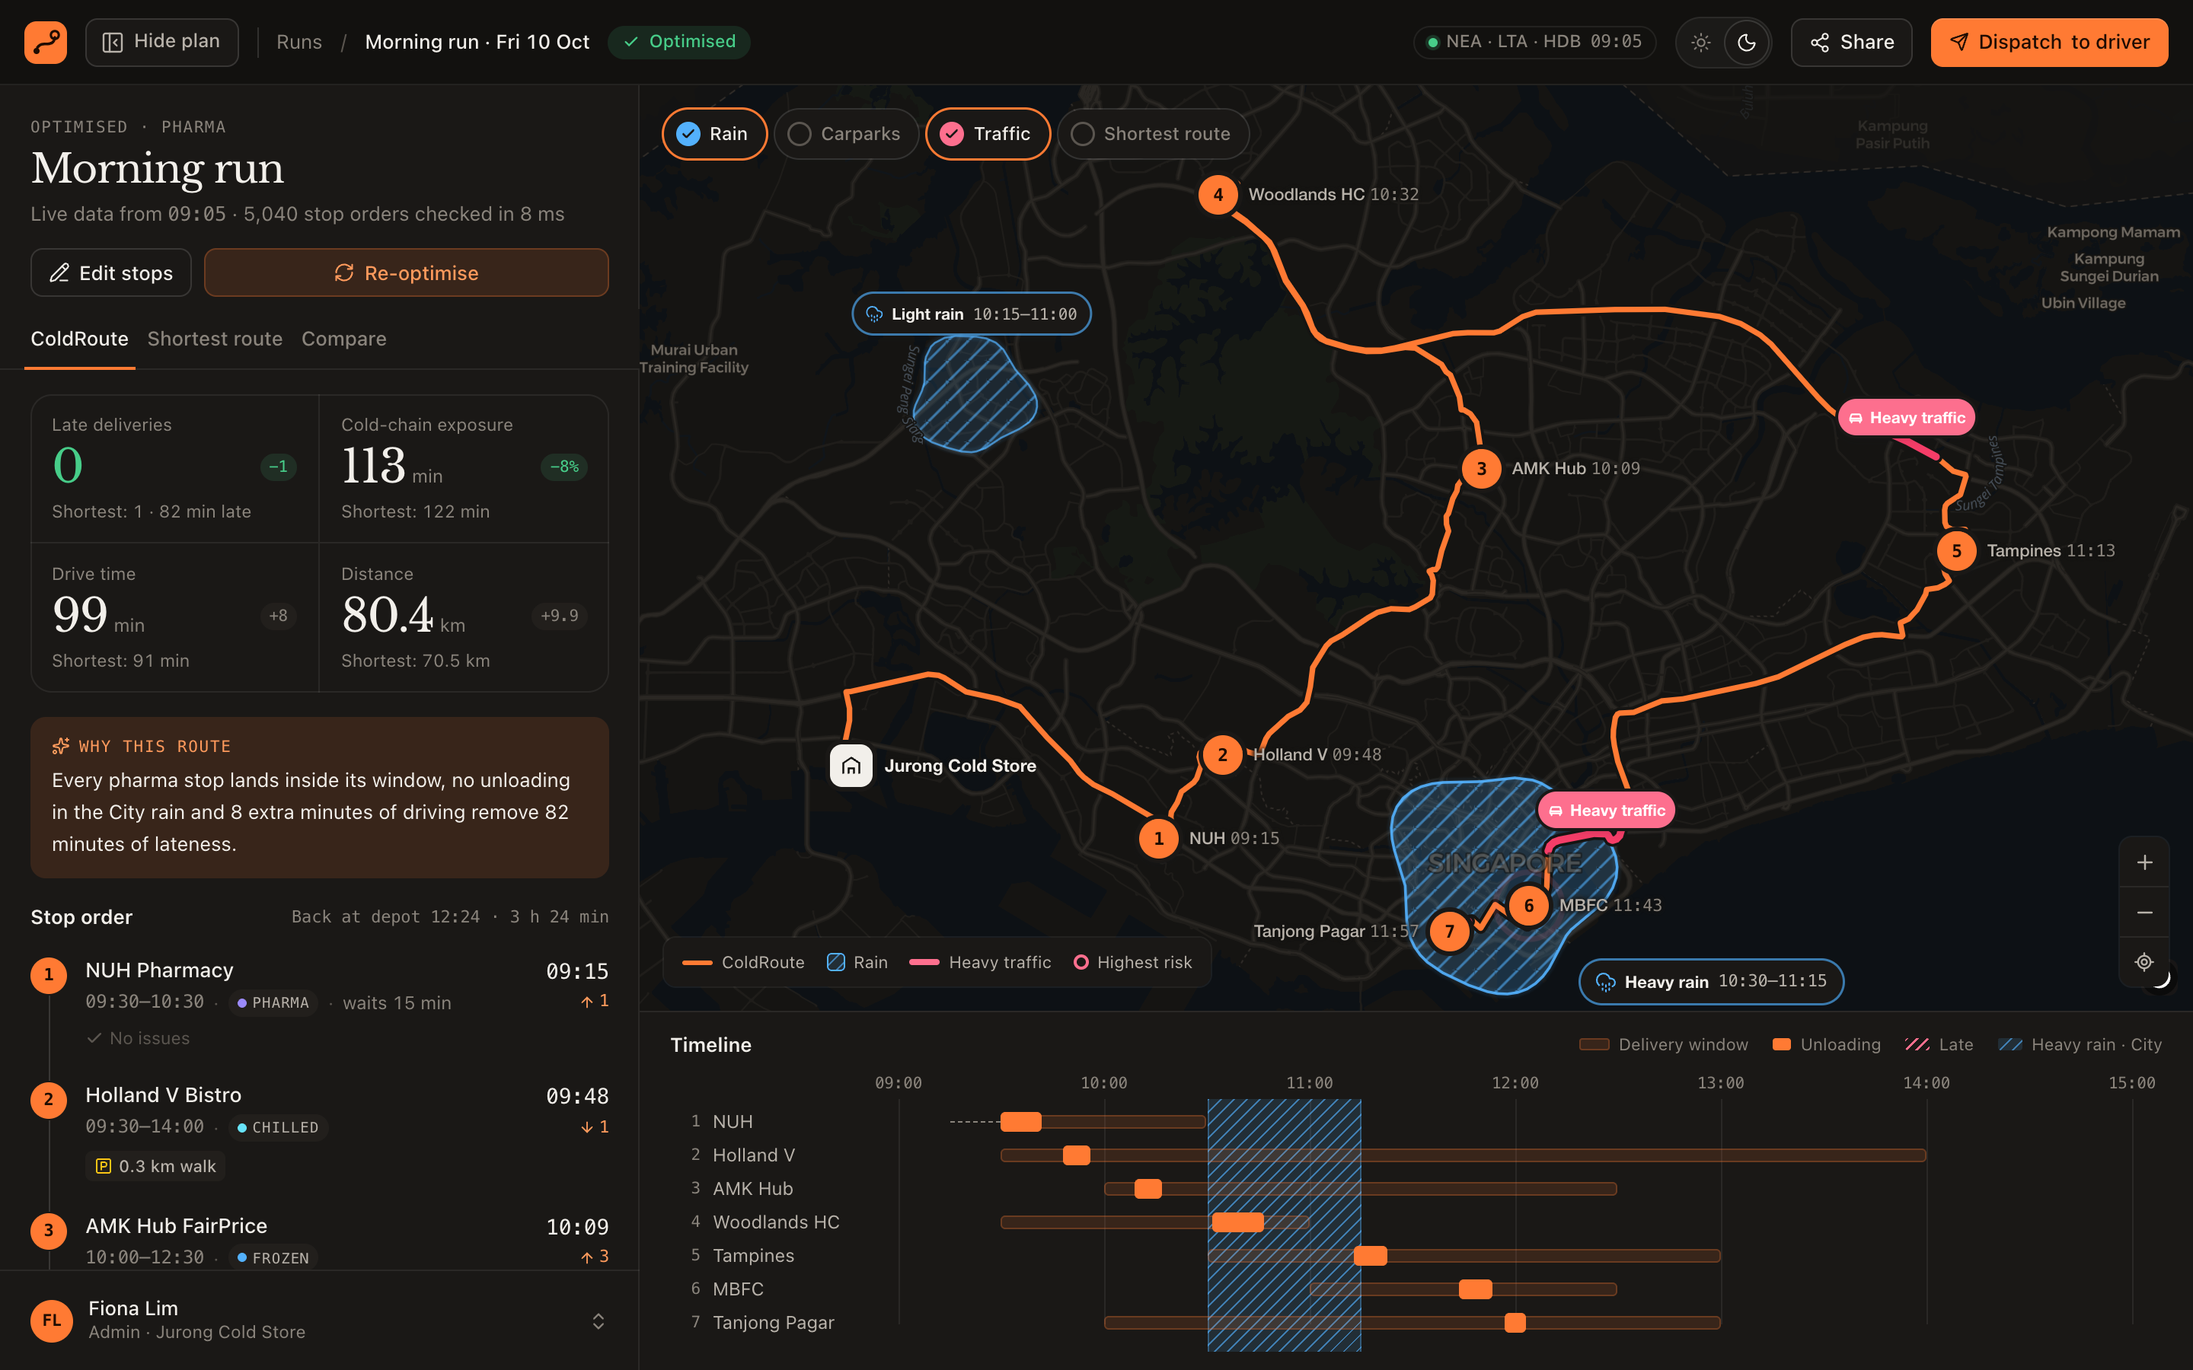
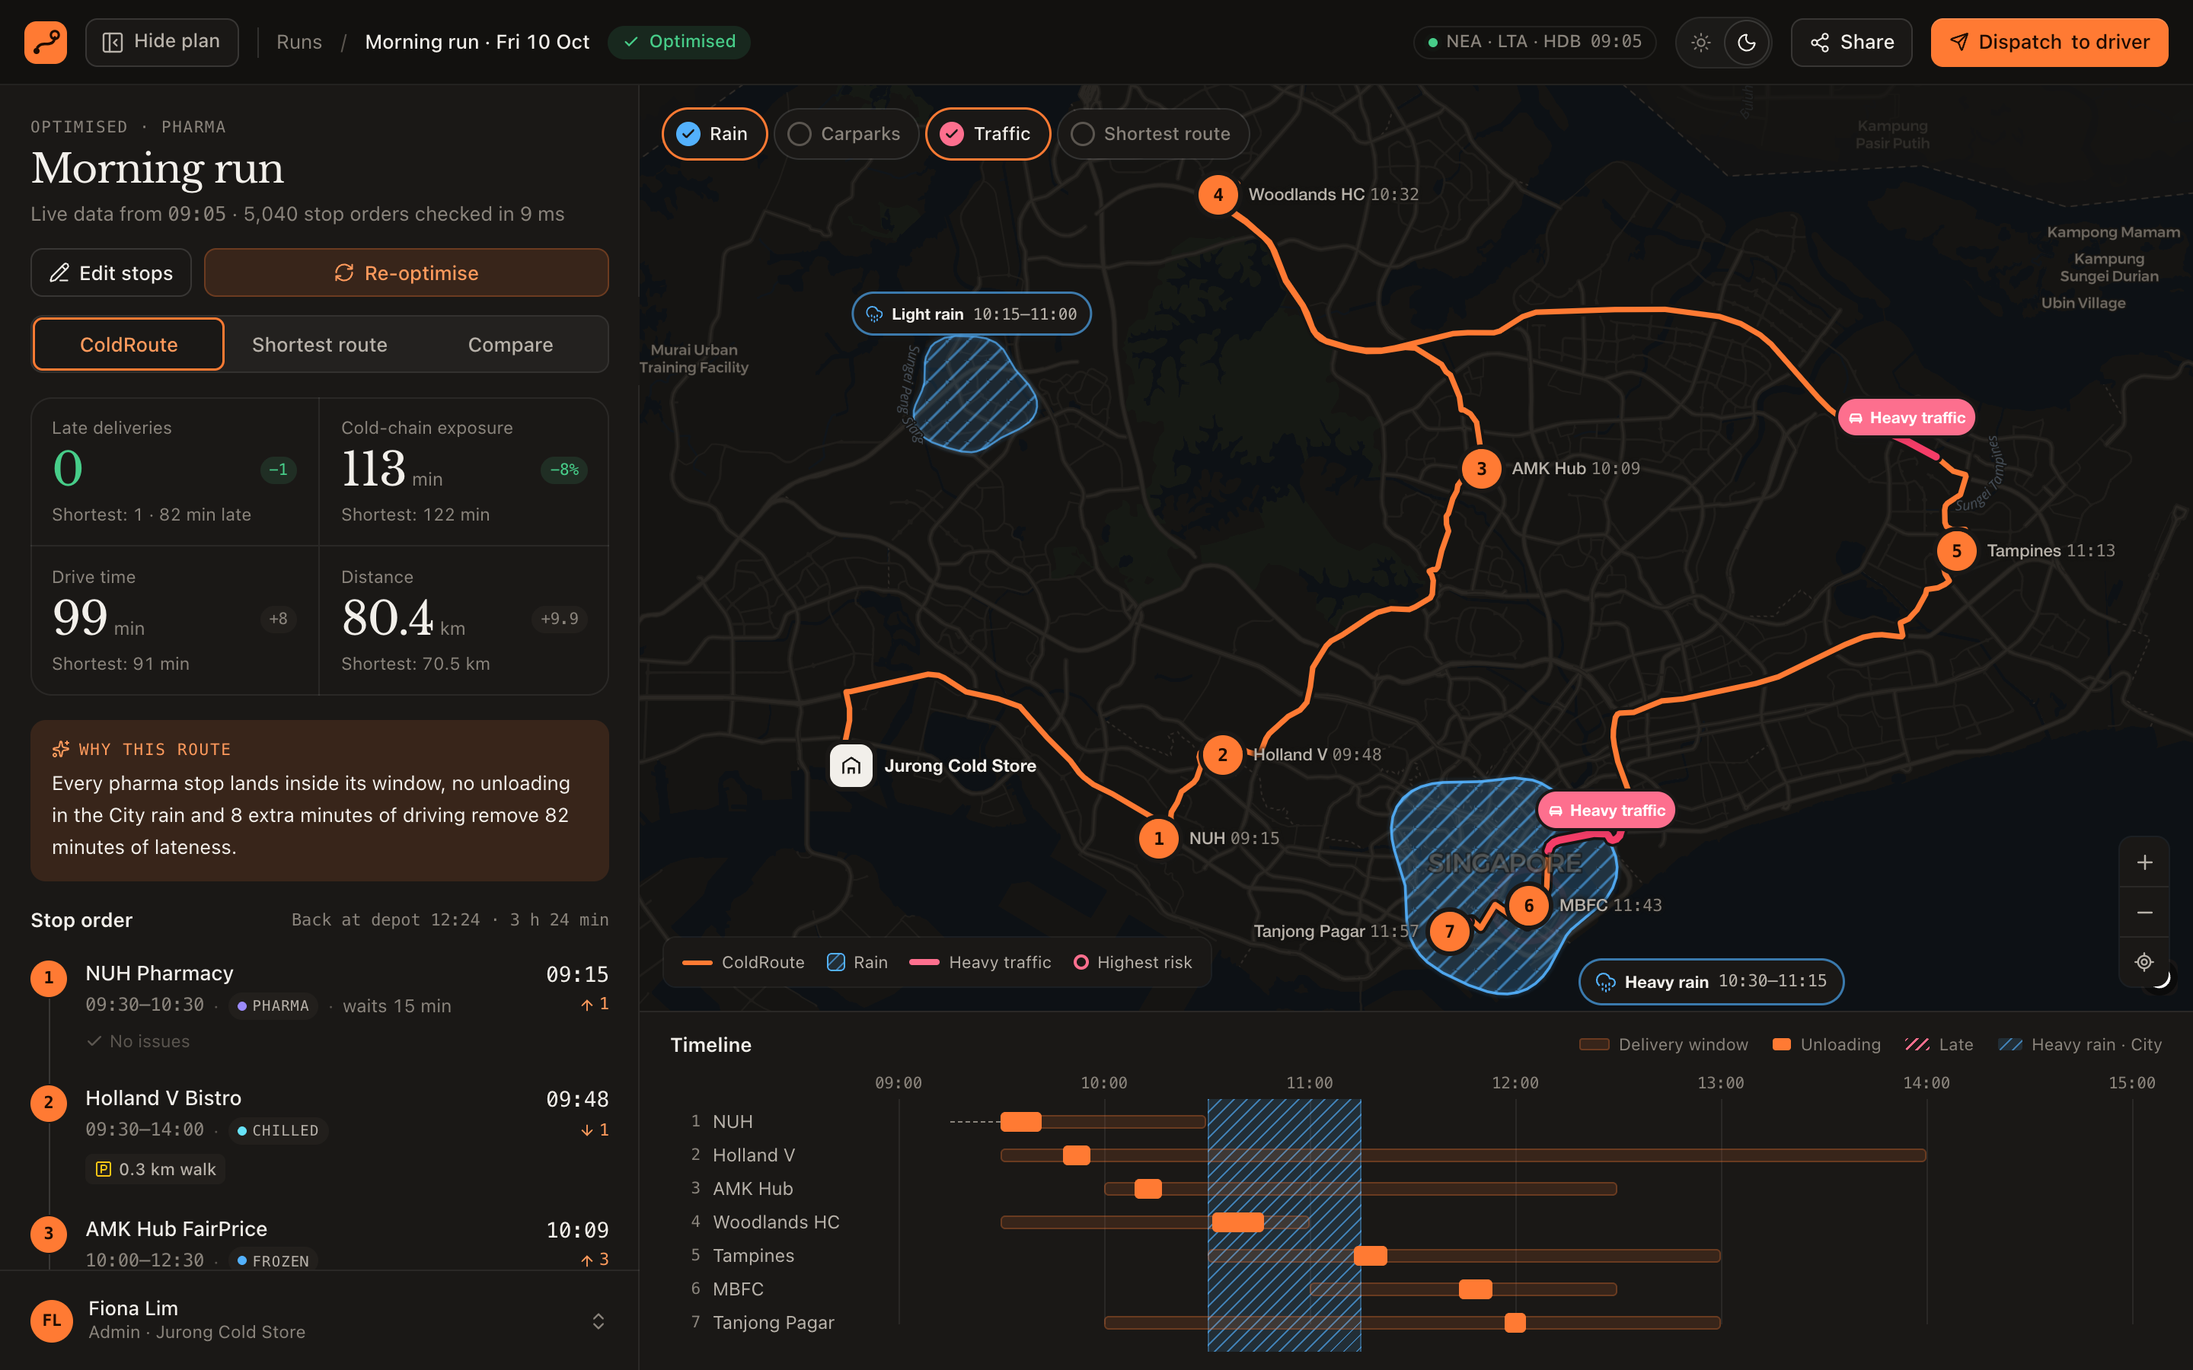
Use Segmented for the route view, add frontend AGENTS.md
- The ColdRoute / Shortest route / Compare switch now uses the same
  Segmented control as the profile picker; the underline Tabs are gone.
  On a narrow panel it reads "Shortest", like the KPI captions.
- frontend/AGENTS.md: the UI conventions (tokens, colour meanings, one
  solid primary per screen, action placement, one switch style, type
  scale, copy, layouts, PR checklist). Linked from both READMEs.
- README: a short Conventions section and refreshed screenshots.

diff --git a/frontend/src/components/ui.tsx b/frontend/src/components/ui.tsx
@@ -75,7 +75,7 @@ export function Segmented<T extends string>({
   label,
 }: {
   value: T
-  options: Array<{ value: T; label: ReactNode }>
+  options: Array<{ value: T; label: ReactNode; title?: string }>
   onChange: (v: T) => void
   size?: 'sm' | 'md'
   className?: string
@@ -94,6 +94,7 @@ export function Segmented<T extends string>({
             key={o.value}
             role="radio"
             aria-checked={on}
+            title={o.title}
             onClick={() => onChange(o.value)}
             className={clsx(
               'min-w-0 flex-1 truncate whitespace-nowrap rounded-[calc(var(--r-control)-3px)] font-medium transition-[background-color,color,box-shadow] duration-150 focus-visible:outline-offset-[-1px]',
@@ -101,51 +102,6 @@ export function Segmented<T extends string>({
               on
                 ? 'bg-panel text-brand-fg shadow-[0_0_0_1.5px_var(--brand),0_1px_2px_rgba(16,24,40,0.08)]'
                 : 'text-fg-2 hover:bg-panel/70 hover:text-fg',
-            )}
-          >
-            {o.label}
-          </button>
-        )
-      })}
-    </div>
-  )
-}
-
-/**
- * Switch between views of the same thing. Underlined tabs on a hairline, sized
- * to their labels, so they never squeeze or wrap; they scroll if space runs out.
- */
-export function Tabs<T extends string>({
-  value,
-  options,
-  onChange,
-  className,
-  label,
-}: {
-  value: T
-  options: Array<{ value: T; label: ReactNode; title?: string }>
-  onChange: (v: T) => void
-  className?: string
-  label?: string
-}) {
-  return (
-    <div
-      role="tablist"
-      aria-label={label}
-      className={clsx('no-scrollbar flex gap-3 overflow-x-auto shadow-[inset_0_-1px_0_var(--border-main)]', className)}
-    >
-      {options.map((o) => {
-        const on = value === o.value
-        return (
-          <button
-            key={o.value}
-            role="tab"
-            aria-selected={on}
-            title={o.title}
-            onClick={() => onChange(o.value)}
-            className={clsx(
-              '-mx-1 flex h-10 shrink-0 items-center gap-1.5 whitespace-nowrap rounded-t-[6px] border-b-2 px-1 text-[13px] font-medium transition-colors focus-visible:outline-offset-[-2px]',
-              on ? 'border-brand text-fg' : 'border-transparent text-fg-3 hover:border-line-strong hover:text-fg',
             )}
           >
             {o.label}

diff --git a/frontend/src/components/ResultsPanel.tsx b/frontend/src/components/ResultsPanel.tsx
@@ -5,7 +5,7 @@ import { summarise } from '../lib/explain'
 import { travel } from '../lib/optimizer'
 import { duration, hm, signed } from '../lib/time'
 import type { OptimiseResult, Plan, Stop, StopResult } from '../lib/types'
-import { Button, CargoTag, Tabs } from './ui'
+import { Button, CargoTag, Segmented } from './ui'
 
 export type View = 'coldroute' | 'baseline' | 'compare'
 
@@ -68,19 +68,31 @@ export function ResultsPanel(props: Props) {
           </div>
         )}
       </div>
-      <Tabs<View>
-        label="Route view"
-        className="sticky top-0 z-10 mt-2 bg-panel px-5"
-        value={view}
-        onChange={setView}
-        options={[
-          { value: 'coldroute', label: 'ColdRoute', title: 'The recommended, risk-aware plan' },
-          { value: 'baseline', label: 'Shortest route', title: 'Minimises driving only' },
-          { value: 'compare', label: 'Compare', title: 'Both plans on one map' },
-        ]}
-      />
+      {/* same switch as the draft profile picker; stays reachable while the panel scrolls */}
+      <div className="sticky top-0 z-10 bg-panel px-5 pt-3 pb-2">
+        <Segmented<View>
+          label="Route view"
+          className="w-full"
+          value={view}
+          onChange={setView}
+          options={[
+            { value: 'coldroute', label: 'ColdRoute', title: 'The recommended, risk-aware plan' },
+            {
+              value: 'baseline',
+              // "Shortest" alone on a narrow panel, like the KPI captions
+              label: (
+                <>
+                  Shortest<span className="@max-sm:hidden"> route</span>
+                </>
+              ),
+              title: 'Shortest route: minimises driving only',
+            },
+            { value: 'compare', label: 'Compare', title: 'Both plans on one map' },
+          ]}
+        />
+      </div>
 
-      <div className="mx-5 mt-4 grid grid-cols-2 overflow-hidden rounded-panel shadow-[inset_0_0_0_1px_var(--border-main)]">
+      <div className="mx-5 mt-2 grid grid-cols-2 overflow-hidden rounded-panel shadow-[inset_0_0_0_1px_var(--border-main)]">
         <Kpi
           label="Late deliveries"
           value={String(shown.lateStops)}

diff --git a/frontend/AGENTS.md b/frontend/AGENTS.md
@@ -1,0 +1,111 @@
+# AGENTS.md: frontend
+
+Rules for anyone changing `frontend/`, people and AI coding agents alike. The goal is one consistent product: it should look as if one designer made every screen. When a rule here and your instinct disagree, follow the rule or change it in this file first.
+
+## Stack and commands
+
+React 19, TypeScript (strict), Vite 8, Tailwind CSS 4, MapLibre GL 6, lucide-react icons, clsx. Node ≥ 20.19 (`.nvmrc` pins 22).
+
+```bash
+npm run dev          # http://localhost:5173 (?state=results opens on the optimised run)
+npm run build        # tsc -b + vite build; must pass before you push
+npm run typecheck
+npm run data:osrm    # re-fetch road geometry and drive times into src/data
+npm run data:sg-mask # re-fetch the Singapore outline used to dim the neighbours
+```
+
+## Where things live
+
+| Path | What |
+| --- | --- |
+| `src/App.tsx` | The state machine (draft → optimising → optimised), layout, theme, account, sharing, shortcuts. Components are controlled from here. |
+| `src/components/ui.tsx` | Shared primitives: `Button`, `IconButton`, `Segmented`, `Tag`, `StatusPill`, `CargoTag`, `Kbd`, `Divider`. Reuse them before writing new ones. |
+| `src/components/*` | One main component per file, PascalCase. |
+| `src/index.css` | Tailwind setup, design tokens, the few global classes (`num`, `eyebrow`, `scroll-thin`). |
+| `src/lib/themes.ts` | Light and dark token values, plus the map palette for each. |
+| `src/lib/types.ts` | Shared types. Keep these shapes when wiring the backend. |
+| `src/data/` | Sample run, mocked live feeds, pre-fetched OSRM data. |
+
+## Design rules
+
+### Colour
+
+- **Tokens only.** Use the Tailwind colours mapped to tokens (`bg-panel`, `bg-subtle`, `bg-hover`, `text-fg` / `fg-2` / `fg-3` / `fg-4`, `border-line`, `brand`, `ok`, `warn`, `bad`, `rain`). No hex values in components. New colours go into `themes.ts` for both light and dark.
+- **Colour carries meaning, never decoration.**
+
+| Colour | Means |
+| --- | --- |
+| Brand orange | Actions, selection, the ColdRoute plan |
+| Green `ok` | Better than the shortest route, on time, live data |
+| Amber `warn` | Medium risk, needs review |
+| Rose `bad` | Late, high risk, heavy traffic |
+| Blue `rain` | Rain |
+| Violet, blue, cyan | Cargo: pharma, frozen, chilled (dots only) |
+
+- Text must meet WCAG AA. White on brand is 4.52:1; don't lighten the brand.
+
+### Buttons and actions
+
+- **One solid primary per screen.** Draft: **Optimise route**. Optimised: **Dispatch to driver**. Shared view: **Make a copy**.
+- `Button` variants: `primary` (that one action), `tonal` (the panel's main action when the screen already has a primary, e.g. **Re-optimise**), `secondary` (default), `ghost` (quiet toolbar actions). Sizes: `md` (32 px) and `sm` (28 px).
+- **Placement.** Run-level actions (Share, Dispatch) go in the top bar. Plan-level actions (Optimise, Re-optimise, Edit stops) go at the top of the panel, under the title. The bottom of the panel is only for the account. Don't add sticky action footers.
+
+### Switches and controls
+
+- **One switch style.** Choosing one of 2–4 options is always `Segmented`: the optimisation profile, the route view, Plan / Timeline on phones. Don't build tabs, underline tabs or pill variants.
+- Map layers use the existing layer chips in `MapView.tsx`.
+- Every control needs a hover state, a pressed state and a visible keyboard focus ring. The global `:focus-visible` style handles the ring, so don't remove outlines.
+
+### Typography
+
+| Use | Style |
+| --- | --- |
+| Run title | `font-serif` 26 px |
+| KPI numbers | `font-serif` 30 px |
+| Body | Sans 13 px |
+| Secondary text | 12 / 11.5 px, `text-fg-3` |
+| Tags | 10.5 px |
+| Times, distances, counts | `num` (monospaced, tabular) |
+| Small uppercase labels | `eyebrow` |
+
+Serif is only for titles and big numbers. Don't add new sizes for one-off cases.
+
+### Spacing, shape, icons
+
+- Panel content uses `px-5`. Spacing follows a 4 px grid; gaps are usually 8, 12 or 16 px.
+- Radii: `rounded-control` for buttons and inputs, `rounded-panel` for cards, `rounded-full` for pills and avatars. Shadows: `shadow-card` or `shadow-float` only.
+- Icons come from lucide-react only: 14 px with stroke 1.8 in buttons, 12 px in chips.
+
+### Writing
+
+- Plain English, sentence case, short. Say what happens, not the internal score: "Unloads in rain", not "W 0.8".
+- Times are 24-hour (`09:05`). Use `·` as the separator. Name the data source when it builds trust (NEA, LTA, HDB · URA, OneMap, OSRM).
+- Labels must fit. When space runs out, shorten the label (e.g. "Shortest" on a narrow panel) or truncate it with a `title` tooltip. Never let a button or tab wrap onto two lines.
+
+### Layout and themes
+
+- Desktop (≥ 768 px): panel on the left (340–600 px, resizable, can be hidden), map and timeline on the right. Phone: full-screen map with a bottom sheet.
+- Both layouts render the same components. `App.tsx` picks the arrangement; small differences use `max-md:`; panel-width differences use container queries (`@container`, `@max-sm:`).
+- Every screen must work in light and dark. The default follows the system.
+- The map stays locked to Singapore (bounds plus a mask). Overlays sit under the place labels.
+
+### Mock vs real
+
+- Mocks live in `src/data/`. Keep them realistic: real places, plausible times. Where a real system would differ, say so in the UI (e.g. the note in the sign-in dialog).
+- Apart from basemap tiles, nothing calls external services at runtime.
+- Saved UI preferences use `usePersistentState` with `coldroute.*` keys.
+
+## Code
+
+- TypeScript strict and no `any`. Shared types belong in `lib/types.ts`.
+- Use Tailwind classes, with `clsx` for conditional classes. Global CSS goes only in `index.css`.
+- Comments explain why, not what.
+- Commits use an imperative summary line. PRs that change the UI include screenshots.
+
+## Before you open a PR
+
+- [ ] `npm run build` passes.
+- [ ] Checked in light and dark, at panel widths 340 and 600, and on a 390 px phone.
+- [ ] No new colours, sizes or switch styles outside the tokens and primitives above.
+- [ ] Still one solid primary per screen.
+- [ ] README screenshots updated if the UI changed visibly.

diff --git a/frontend/README.md b/frontend/README.md
@@ -32,7 +32,7 @@ No API key is needed. Basemap tiles come from CARTO (Positron and Dark Matter), 
 | --- | --- |
 | Input panel | Departure time, depot, optimisation profile (Pharma, Balanced, Fastest), address search with a mocked OneMap lookup, inline editing of time window, unloading time and cargo class, and an ambiguous-address resolver. Stops can be added in any order: the list is a set of orders, and the optimiser decides the sequence. **Optimise route** sits right under the run title. |
 | Optimising | A short, staged progress list for the five data sources takes the place of the Optimise button, then the result appears. `⌘↵` runs it from anywhere. |
-| Results panel | **Re-optimise** and **Edit stops** sit under the title. Then four KPIs, each compared with the shortest route, a plain-language "Why this route" summary, and the stop order. Each stop lists only what needs attention, in words: "Unloads in rain", "1.1 km walk", "Heavy traffic", "2 h 57 min on board", "12 min spare". Red means high risk. The whole panel scrolls as one, with the view tabs pinned to the top. |
+| Results panel | **Re-optimise** and **Edit stops** sit under the title. Then four KPIs, each compared with the shortest route, a plain-language "Why this route" summary, and the stop order. Each stop lists only what needs attention, in words: "Unloads in rain", "1.1 km walk", "Heavy traffic", "2 h 57 min on board", "12 min spare". Red means high risk. The whole panel scrolls as one, with the view switch pinned to the top. |
 | Map | Locked to Singapore: you can't pan or zoom out past the island, and Johor and the Riau islands are dimmed. Numbered stops, a route drawn on real roads, two hatched rain cells that drift slowly (light rain in the west, heavy rain over the City), and heavy-traffic stretches marked on the route. Optional layers show carparks with walking links and the shortest route as a ghost. The highest-risk stop pulses. |
 | Stop card | Click any stop: ETA, window, unloading time, a "Why here" explanation, and every risk factor compared with the shortest route. |
 | Timeline | Delivery windows, unloading blocks, waits, lateness and the heavy-rain period on one time axis. In Compare view it also shows the shortest route as ghost blocks. |
@@ -50,6 +50,16 @@ Three views: **ColdRoute**, **Shortest route**, and **Compare**. Switching views
 | Phone (< 768 px) | The map fills the screen and the panel moves into a bottom sheet with three heights (peek, half, full). Drag or flick the grabber, or tap it to step up. After optimising, the sheet has **Plan** and **Timeline** tabs. Tapping a stop shows its card in the sheet, raised to half height. The top bar keeps the logo, the status, a light/dark button and the main action. |
 
 Both layouts render the same components. `App.tsx` picks the arrangement with `useMediaQuery`, and smaller differences use Tailwind's `max-md:` variants.
+
+## Conventions
+
+The full rules are in [`AGENTS.md`](AGENTS.md); read it before changing the UI. AI coding agents pick it up automatically. In short:
+
+- **Tokens only.** Colours, radii and shadows come from `index.css` and `lib/themes.ts`, and every colour means something (orange = action, green = better, amber = medium risk, rose = late or high risk, blue = rain).
+- **One solid primary per screen.** Run actions sit in the top bar, plan actions at the top of the panel, and the account at the bottom.
+- **One switch style.** Any choice between 2 and 4 options uses `Segmented`.
+- **Same type scale everywhere.** Serif for titles and big numbers, `num` for times and distances, sentence-case copy in plain words.
+- **Check before a PR.** Light and dark, panel widths 340 and 600, a 390 px phone, and `npm run build`.
 
 ## Button hierarchy
 

diff --git a/README.md b/README.md
@@ -1,6 +1,6 @@
 # ColdRoute SG — Local MVP
 
-ColdRoute SG is a local-first prototype for **cold-chain delivery optimisation in Singapore** using public weather, parking and traffic-camera data. The frontend is **React + TypeScript + Vite + Tailwind CSS + MapLibre**, a single-screen dispatcher console. See [`frontend/README.md`](frontend/README.md). The backend is **Python + FastAPI**.
+ColdRoute SG is a local-first prototype for **cold-chain delivery optimisation in Singapore** using public weather, parking and traffic-camera data. The frontend is **React + TypeScript + Vite + Tailwind CSS + MapLibre**, a single-screen dispatcher console. See [`frontend/README.md`](frontend/README.md); UI conventions are in [`frontend/AGENTS.md`](frontend/AGENTS.md). The backend is **Python + FastAPI**.
 
 This version intentionally has **no AWS integration** and does **not require any API key or registration** to run.
 
